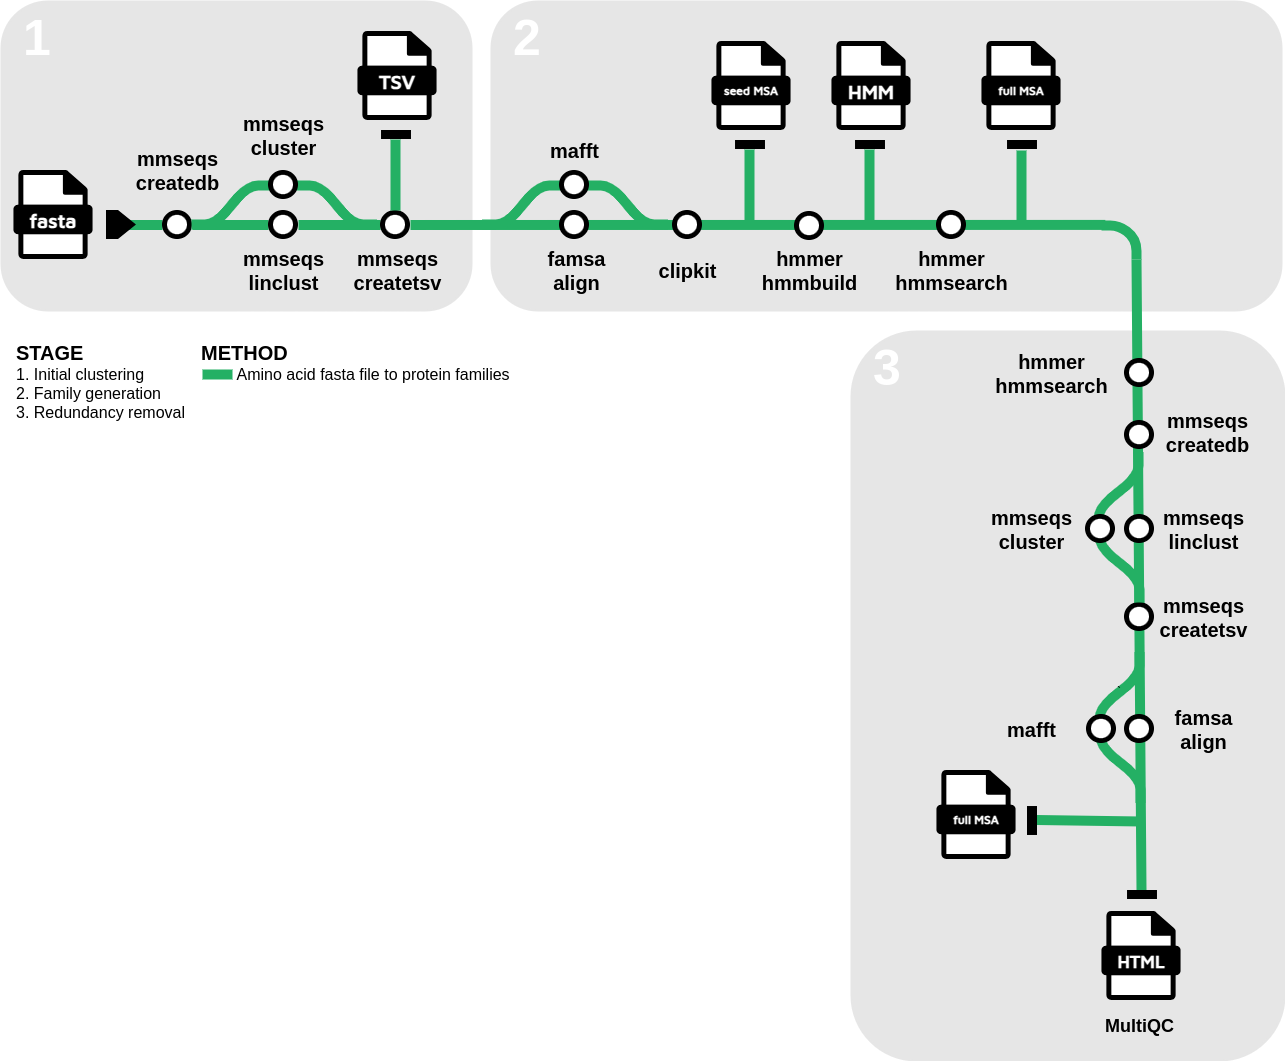
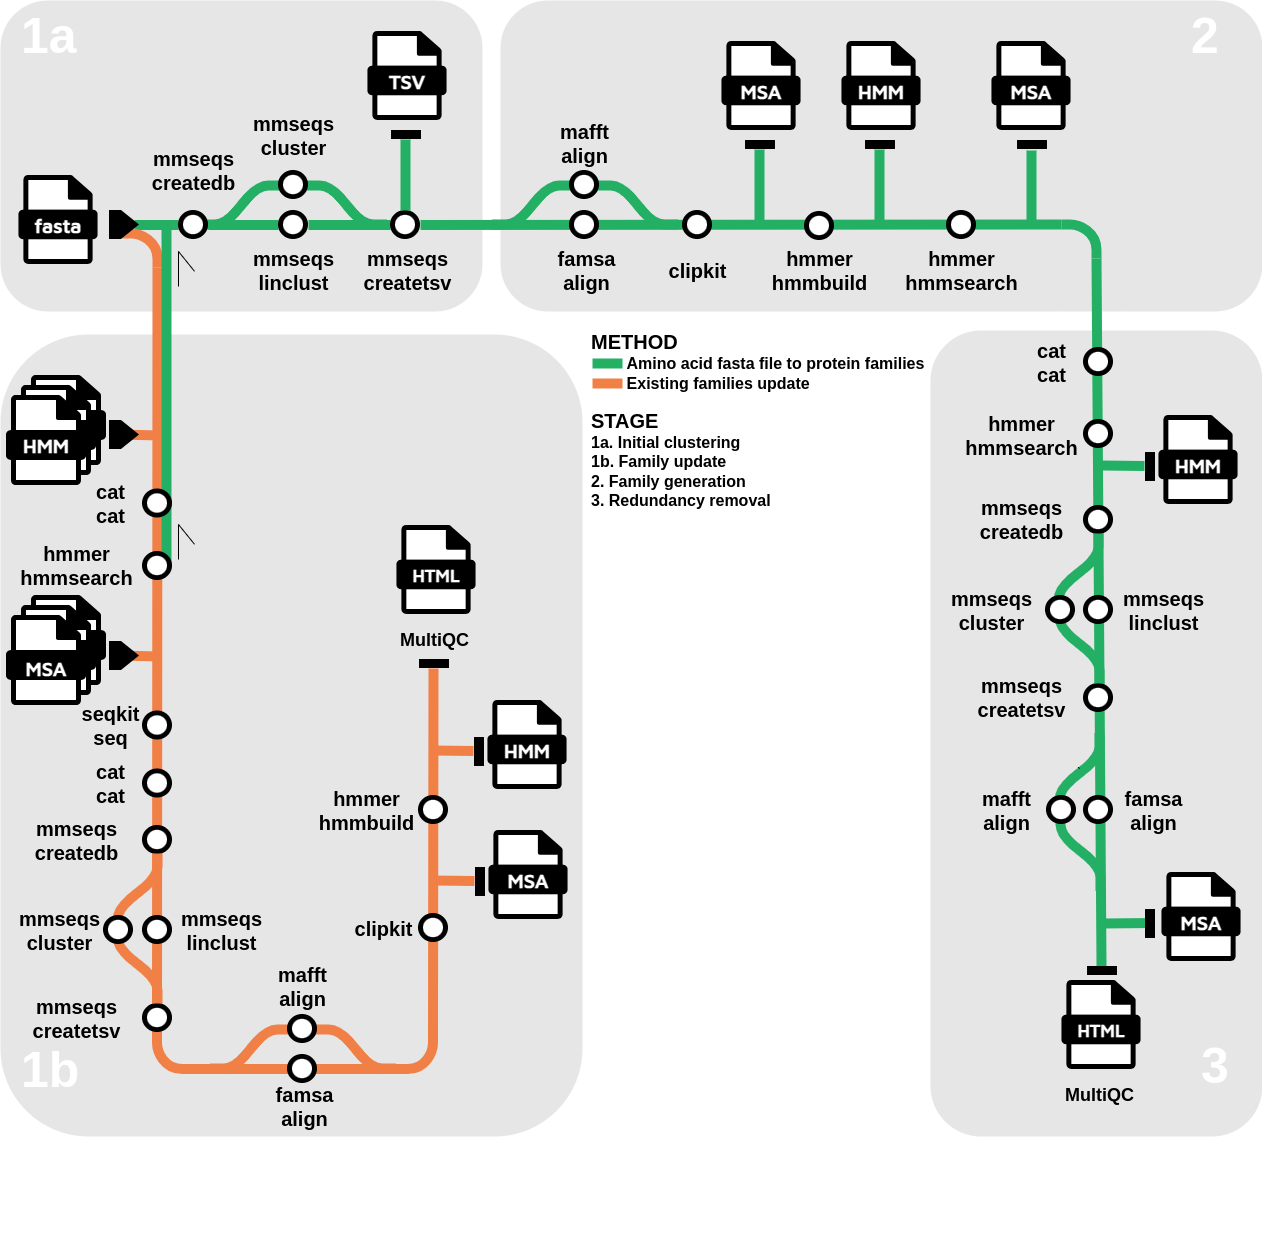
metro map and output.md updated

diff --git a/docs/output.md b/docs/output.md
@@ -16,20 +16,29 @@ Initial clustering:
 
 Multiple sequence alignment:
 
-- [FAMSA](#famsa) aligner option. Best speed and sensitivity option to build seed multiple sequence alignment for the families.
-- [mafft](#mafft) aligner option. Fast but not as sensitive as FAMSA to build seed multiple sequence alignment for the families.
+- [FAMSA](#famsa) aligner option. Best speed and sensitivity option to build seed multiple sequence alignment for the families
+- [mafft](#mafft) aligner option. Fast but not as sensitive as FAMSA to build seed multiple sequence alignment for the families
 - [ClipKIT](#clipkit) to optionally clip gapped portions of the multiple sequence alignment (MSA)
 
 Generating family models:
 
-- [hmmer](#hmmer) to build the family HMM (hmmbuild) and to 'fish' additional sequences from the input fasta file, with given thresholds, into the family and also build the family full MSA (hmmsearch).
+- [hmmer](#hmmer) to build the family HMM (hmmbuild) and to 'fish' additional sequences from the input fasta file, with given thresholds, into the family and also build the family full MSA (hmmsearch)
 
 Removing redundancy:
 
 - [hmmer](#hmmer-for-redundancy-removal) to match family representative sequences against other family models in order to keep non redundant ones
-- [MMseqs2](#mmseqs2-for-redundancy-removal) to strictly cluster the sequences within each of the remaining families, in order to still capture the evolutionary diversity within a family, but without keeping all the almost identical sequences.
-- [FAMSA](#famsa-for-redundancy-removal) aligner option. Re-align full MSA with non-redundant set of sequences.
-- [mafft](#mafft-for-redundancy-removal) aligner option. Re-align full MSA with non-redundant set of sequences.
+- [MMseqs2](#mmseqs2-for-redundancy-removal) to strictly cluster the sequences within each of the remaining families, in order to still capture the evolutionary diversity within a family, but without keeping all the almost identical sequences
+- [FAMSA](#famsa-for-redundancy-removal) aligner option. Re-align full MSA with final set of sequences
+- [mafft](#mafft-for-redundancy-removal) aligner option. Re-align full MSA with final set of sequences
+
+Updating families:
+
+- [hmmer](#hmmer-for-updating-families) to match input sequences to existing families with hmmsearch as well as for rebuilding models with newly recruited sequences with hmmbuild
+- [SeqKit](#SeqKit) to extract fasta formatted family sequences from their MSA files
+- [MMseqs2](#mmseqs2-for-updating-families) to strictly cluster the sequences within each of the families to update
+- [FAMSA](#famsa-for-updating-families) aligner option. Re-align full MSA with final set of sequences
+- [mafft](#mafft-for-updating-families) aligner option. Re-align full MSA with final set of sequences
+- [ClipKIT](#clipkit-for-updating-families) to optionally clip gapped portions of the multiple sequence alignment (MSA)
 
 Reporting:
 
@@ -59,6 +68,7 @@ Reporting:
       - `<samplename>/`
         - `chunked_fasta/`
           - `*.fasta`: (optional) fasta files with amino acid sequences of each cluster above the membership threshold
+
 </details>
 
 [MMseqs2](https://github.com/soedinglab/MMseqs2) clusters amino acid fasta files via either the 'cluster' or the 'linclust' algorithms.
@@ -72,6 +82,7 @@ Reporting:
   - `famsa_align/`
     - `<samplename>/`
       - `<samplename>_*.aln`: fasta files with aligned amino acid sequences
+
 </details>
 
 [FAMSA](https://github.com/refresh-bio/FAMSA) is a progressive algorithm for large-scale multiple sequence alignments.
@@ -85,6 +96,7 @@ Reporting:
   - `mafft_align/`
     - `<samplename>/`
       - `<samplename>_*.fas`: fasta files with aligned amino acid sequences
+
 </details>
 
 [mafft](https://github.com/GSLBiotech/mafft) is a fast but not very sensitive multiple sequence alignment tool.
@@ -97,10 +109,11 @@ Reporting:
 - `seed_msa/`
   - `clipkit/`
     - `<samplename>/`
-      - `*.clipkit`: gap-clipped (start, middle, end) fasta files of aligned amino acid sequences
+      - `<samplename>_*.clipkit`: gap-clipped (start, middle, end) fasta files of aligned amino acid sequences
   - `clip_ends/`
     - `<samplename>/`
-      - `*.fas`: gap-clipped (only start and end) fasta files of aligned amino acid sequences
+      - `<samplename>_*.clipends`: gap-clipped (only start and end) fasta files of aligned amino acid sequences
+
 </details>
 
 [ClipKIT](https://github.com/JLSteenwyk/ClipKIT) is a fast and flexible alignment trimming tool that keeps phylogenetically informative sites and removes others.
@@ -124,6 +137,7 @@ Reporting:
   - `pre_non_redundant/`
     - `<samplename>/`
       - `<samplename>_*.fas.gz`: compressed family full MSA (before checking for redundancy)
+
 </details>
 
 [hmmer](https://github.com/EddyRivasLab/hmmer) is a fast and flexible alignment trimming tool that keeps phylogenetically informative sites and removes others.
@@ -135,9 +149,8 @@ Reporting:
 
 - `remove_redundancy/`
   - `hmmer/`
-    - `hmmbuild/`
-      - `concatenated/`
-        - `<samplename>_*.hmm.gz`: (optional) concatenated compressed hmm model for all families in a given sample (pre redundancy removal)
+    - `concatenated/`
+      - `<samplename>.hmm.gz`: (optional) concatenated compressed hmm model for all families in a given sample (pre redundancy removal)
     - `hmmsearch/`
       - `<samplename>/`
         - `<samplename>_*.domtbl.gz`: (optional) hmmsearch results of family reps against families' HMMs
@@ -176,6 +189,7 @@ Reporting:
     - `reps_fasta/`
       - `<samplename>/`
         - `<samplename>_reps.fa`: (optional) fasta file of all family representative sequences (one sequence per family)
+
 </details>
 
 [MMseqs2](https://github.com/soedinglab/MMseqs2) clusters amino acid fasta files via either the 'cluster' or the 'linclust' algorithms.
@@ -187,8 +201,10 @@ Reporting:
 
 - `full_msa/`
   - `non_redundant/`
-    - `<samplename>/`
-      - `<samplename>_*.aln`: family full MSA (after checking for sequence redundancy)
+    - `famsa_align/`
+      - `<samplename>/`
+        - `<samplename>_*.aln`: family full MSA (after checking for sequence redundancy)
+
 </details>
 
 [FAMSA](https://github.com/refresh-bio/FAMSA) is a progressive algorithm for large-scale multiple sequence alignments.
@@ -200,11 +216,132 @@ Reporting:
 
 - `full_msa/`
   - `non_redundant/`
-    - `<samplename>/`
-      - `<samplename>_*.fas`: fasta files with aligned amino acid sequences (after checking for sequence redundancy)
+    - `mafft_align/`
+      - `<samplename>/`
+        - `<samplename>_*.fas`: fasta files with aligned amino acid sequences (after checking for sequence redundancy)
+
 </details>
 
 [mafft](https://github.com/GSLBiotech/mafft) is a fast but not very sensitive multiple sequence alignment tool.
+
+### hmmer for updating families
+
+<details markdown="1">
+<summary>Output files</summary>
+
+- `update_families/`
+  - `hmmer/`
+    - `concatenated/`
+      - `<samplename>.hmm.gz`: (optional) concatenated compressed hmm model for all families in a given sample, to give as input to hmmsearch, to figure which families will be updated with new sequences
+    - `hmmsearch/`
+      - `<samplename>/`
+        - `<samplename>.domtbl.gz`: (optional) hmmsearch results of input fasta file against existing families' HMMs
+    - `hmmbuild/`
+      - `<samplename>/`
+        - `<family_id>.hmm.gz`: (optional) compressed family HMM after update
+        - `<family_id>.hmmbuild.txt`: (optional) hmmbuild execution log
+  - `branch_fasta/`
+    - `hits/`
+      - `<family_id>.fasta`: (optional) subset of input fasta with hit sequences for each existing family
+    - `<samplename>.fasta.gz`: (optional) fasta file with all remaining non-hit input sequences, which will be passed to normal execution mode to create new families
+  - `family_reps/`
+    - `<samplename>/`
+      - `<samplename>_meta_mqc.csv`: (optional) csv with metadata (Sample Name,Family Id,Size,Representative Length,Representative Id,Sequence)
+      - `<samplename>_reps.fa`: (optional) fasta file of all family representative sequences (one sequence per family)
+
+</details>
+
+[hmmer](https://github.com/EddyRivasLab/hmmer) is a fast and flexible alignment trimming tool that keeps phylogenetically informative sites and removes others.
+
+### SeqKit
+
+<details markdown="1">
+<summary>Output files</summary>
+
+- `seqkit/`
+  - `<samplename>_<family_id>.fastq`: (optional) fasta formatted family sequences from full MSA with gaps removed
+- `update_families/`
+  - `fasta/`
+    - `<samplename>_<family_id>.fastq`: (optional) concatenated family fasta with newly recruited sequences
+
+</details>
+
+[SeqKit](https://github.com/shenwei356/seqkit) is a cross-platform and ultrafast toolkit for FASTA/Q file manipulation.
+
+### MMseqs2 for updating families
+
+<details markdown="1">
+<summary>Output files</summary>
+
+- `mmseqs/`
+  - `update_families/`
+    - `mmseqs_createtsv/`
+      - `<family_id>.tsv`: tab-separated table containing 2 columns; the first one with the cluster representative sequences, and the second with the cluster members
+    - `mmseqs_createdb/`
+      - `<family_id>/`
+        - `*`: (optional) mmseqs format db of fasta sequences
+    - `mmseqs_linclust/`
+      - `<family_id>/`
+        - `*`: (optional) mmseqs format clustered db
+    - `mmseqs_cluster/`
+      - `<family_id>/`
+        - `*`: (optional) mmseqs format clustered db
+    - `reps_fasta/`
+      - `<samplename>/`
+        - `<samplename>_reps.fa`: (optional) fasta file of all family representative sequences (one sequence per family)
+
+</details>
+
+[MMseqs2](https://github.com/soedinglab/MMseqs2) clusters amino acid fasta files via either the 'cluster' or the 'linclust' algorithms.
+
+### FAMSA for updating families
+
+<details markdown="1">
+<summary>Output files</summary>
+
+- `update_families/`
+  - `full_msa/`
+    - `famsa_align/`
+    - `<samplename>/`
+      - `<family_id>.aln`: family full MSA (after updating with new sequences)
+
+</details>
+
+[FAMSA](https://github.com/refresh-bio/FAMSA) is a progressive algorithm for large-scale multiple sequence alignments.
+
+### mafft for updating families
+
+<details markdown="1">
+<summary>Output files</summary>
+
+
+- `update_families/`
+  - `full_msa/`
+    - `mafft_align/`
+    - `<samplename>/`
+      - `<family_id>.fas`: family full MSA (after updating with new sequences)
+
+</details>
+
+[mafft](https://github.com/GSLBiotech/mafft) is a fast but not very sensitive multiple sequence alignment tool.
+
+### ClipKIT for updating families
+
+<details markdown="1">
+<summary>Output files</summary>
+
+- `update_families/`
+  - `full_msa/`
+    - `clipkit/`
+      - `<samplename>/`
+        - `<family_id>.clipkit`: gap-clipped (start, middle, end) fasta files of aligned amino acid sequences
+    - `clip_ends/`
+      - `<samplename>/`
+        - `<family_id>.clipends`: gap-clipped (only start and end) fasta files of aligned amino acid sequences
+
+</details>
+
+[ClipKIT](https://github.com/JLSteenwyk/ClipKIT) is a fast and flexible alignment trimming tool that keeps phylogenetically informative sites and removes others.
 
 ### Extract family representatives
 
@@ -215,6 +352,12 @@ Reporting:
   - `<samplename>/`
     - `<samplename>_meta_mqc.csv`: csv with metadata to print with MultiQC (Sample Name,Family Id,Size,Representative Length,Representative Id,Sequence)
     - `<samplename>_reps.fa`: fasta file of all family representative sequences (one sequence per family)
+- `update_families/`
+  - `family_reps/`
+    - `<samplename>/`
+      - `<samplename>_meta_mqc.csv`: csv with metadata to print with MultiQC (Sample Name,Family Id,Size,Representative Length,Representative Id,Sequence)
+      - `<samplename>_reps.fa`: fasta file of all family representative sequences (one sequence per family)
+
 </details>
 
 ### MultiQC

diff --git a/README.md b/README.md
@@ -24,7 +24,7 @@ It takes a protein fasta file as input, clusters the sequences and then generate
 
 
 <p align="center">
-    <img src="docs/images/proteinfamilies_workflow.png" alt="nf-core/proteinfamilies workflow overview" width="90%">
+    <img src="docs/images/proteinfamilies_workflow.png" alt="nf-core/proteinfamilies workflow overview">
 </p>
 
 1. Cluster sequences ([`MMseqs2`](https://github.com/soedinglab/MMseqs2/))
